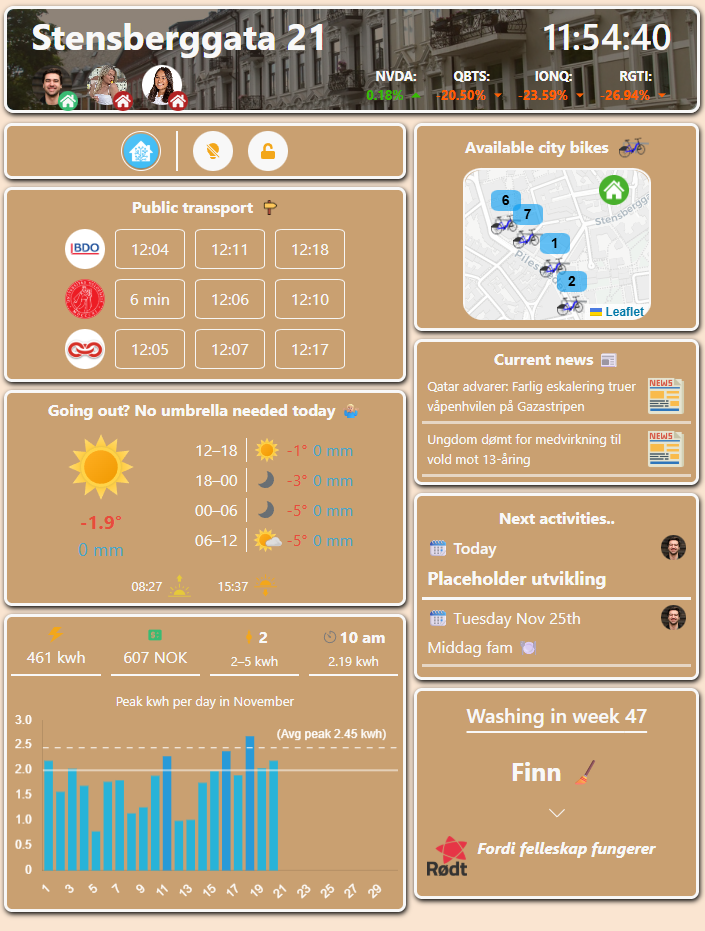
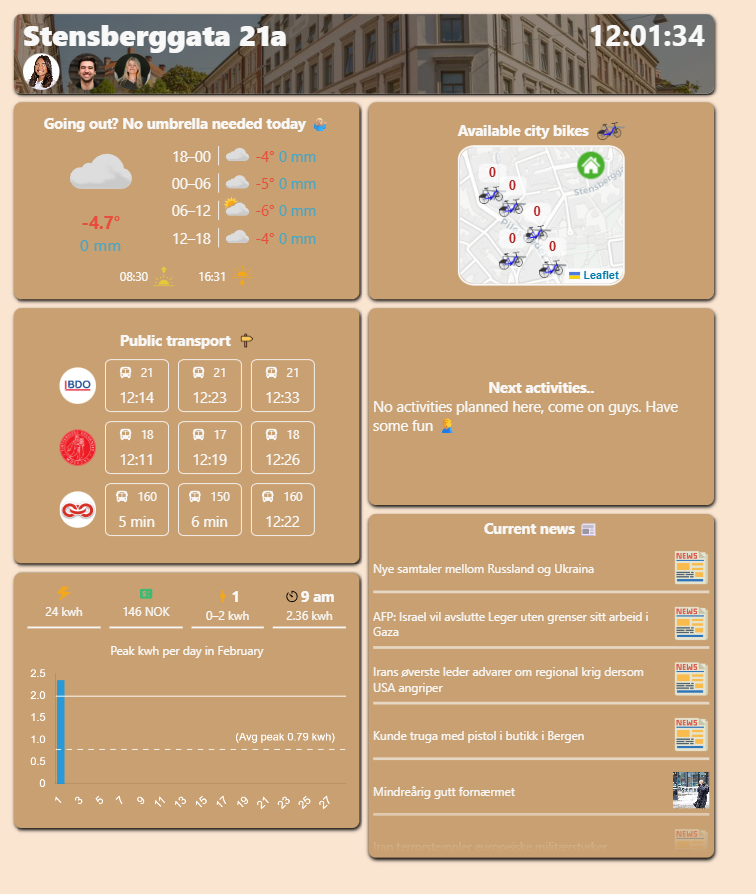
Mvp small fixes (#58)
* Fixed mvp fixes

* Updated dash view for

* Update readme

diff --git a/client/src/components/auth/ProfileOverview.tsx b/client/src/components/auth/ProfileOverview.tsx
@@ -54,7 +54,7 @@ const ProfileOverview: React.FC = () => {
 
   return (
     <>
-      <div className={`login-container h-column surface ${user ? "" : "logged-out"}`}>
+      <div className={`login-container h-column gap-large surface ${user ? "" : "logged-out"}`}>
         {!user ? (
           <Login email={email} setEmail={setEmail} handleSubmit={handleSubmit} />
         ) : (
@@ -78,31 +78,31 @@ const ProfileOverview: React.FC = () => {
             </div>
           </div>
         )}
-      </div>
-      {user && (
-        <div>
-          <div className="h-row action-buttons-right">
-            {editMode ? (
-              <>
-                <LoadingButton onClick={saveAllProfiles} isLoading={isSaving}>
-                  Save <IoMdSend />
-                </LoadingButton>
+        {user && (
+          <div className="h-row action-buttons">
+            <div>
+              <LoadingButton onClick={() => logout()} loadingKey="logout">
+                Sign out <FaSignOutAlt />
+              </LoadingButton>
+            </div>
+            <div className="h-row">
+              {editMode ? (
+                <>
+                  <LoadingButton onClick={saveAllProfiles} isLoading={isSaving}>
+                    Save <IoMdSend />
+                  </LoadingButton>
 
-                <button onClick={cancelEdit}>Cancel</button>
-              </>
-            ) : (
-              <button onClick={() => setEditMode(true)}>
-                Edit <CiEdit />
-              </button>
-            )}
+                  <button onClick={cancelEdit}>Cancel</button>
+                </>
+              ) : (
+                <button onClick={() => setEditMode(true)}>
+                  Edit <CiEdit />
+                </button>
+              )}
+            </div>
           </div>
-          <div className="action-buttons-left">
-            <LoadingButton onClick={() => logout()} loadingKey="logout">
-              Sign out <FaSignOutAlt />
-            </LoadingButton>
-          </div>
-        </div>
-      )}
+        )}
+      </div>
     </>
   );
 };

diff --git a/client/src/components/dashboard/default/templates/DefaultTemplate.ts b/client/src/components/dashboard/default/templates/DefaultTemplate.ts
@@ -3,52 +3,60 @@ import { GridItem } from "../../grid/model/grid-models";
 
 const defaultTemplate: GridItem[] = [
   {
-    id: "60db3294-5374-4bf7-b29f-895e6e74f3b7",
-    col: 13,
-    row: 8,
-    widget: WidgetEnum.news,
-    colSpan: 11,
-    rowSpan: 6,
-  },
-  {
     id: "942c9130-9db9-4574-aac2-6095f3399f17",
     col: 0,
-    row: 7,
+    row: 3,
     widget: WidgetEnum.weather,
-    colSpan: 13,
+    colSpan: 12,
     rowSpan: 7,
   },
   {
     id: "d157f2d8-06aa-4636-8b27-a3110ff2b672",
     col: 0,
-    row: 0,
+    row: 10,
     widget: WidgetEnum.busCards,
-    colSpan: 13,
-    rowSpan: 7,
-  },
-  {
-    id: "9484eb7b-6592-4dd4-983c-7c901efc9536",
-    col: 13,
-    row: 14,
-    widget: WidgetEnum.calender,
-    colSpan: 11,
-    rowSpan: 6,
-  },
-  {
-    id: "e171c147-378e-4d48-83a1-c418dbf6ae60",
-    col: 0,
-    row: 14,
-    widget: WidgetEnum.electricity,
-    colSpan: 13,
+    colSpan: 12,
     rowSpan: 9,
   },
   {
-    id: "b17844ad-b696-453e-a884-87a4ad4c4efa",
-    col: 13,
+    id: "9484eb7b-6592-4dd4-983c-7c901efc9536",
+    col: 12,
+    row: 10,
+    widget: WidgetEnum.calender,
+    colSpan: 12,
+    rowSpan: 7,
+  },
+  {
+    id: "f515d2dd-9ba0-4aeb-8ff5-b464788ec979",
+    col: 0,
     row: 0,
-    colSpan: 11,
-    rowSpan: 8,
+    widget: WidgetEnum.header,
+    colSpan: 24,
+    rowSpan: 3,
+  },
+  {
+    id: "9e34569b-16ff-4e14-b8ba-abc13d813084",
+    col: 12,
+    row: 3,
     widget: WidgetEnum.cityBike,
+    colSpan: 12,
+    rowSpan: 7,
+  },
+  {
+    id: "03ce08f3-0a06-4297-9b90-73cc9cada1b8",
+    col: 12,
+    row: 17,
+    widget: WidgetEnum.news,
+    colSpan: 12,
+    rowSpan: 12,
+  },
+  {
+    id: "b13f9751-52eb-48fa-b7de-f2965cde7f88",
+    col: 0,
+    row: 19,
+    widget: WidgetEnum.electricity,
+    colSpan: 12,
+    rowSpan: 9,
   },
 ];
 

diff --git a/client/src/components/header/header.tsx b/client/src/components/header/header.tsx
@@ -4,7 +4,7 @@ import moment from "moment";
 import { useAuth } from "../../context/AuthContext";
 import ImageCircle from "../shared/imageCirlce/ImageCircle";
 
-const defaultBanner = "/img/header/oslogate.jpg";
+const defaultBanner = "./img/header/oslogate.jpg";
 
 const Header: React.FC = () => {
   const [minutes, setMinutes] = useState(moment().format("HH:mm:ss"));
@@ -17,10 +17,8 @@ const Header: React.FC = () => {
     return () => clearInterval(countdownInterval);
   }, []);
   return (
-    <div
-      className="header-container"
-      style={{ backgroundImage: `url(${home?.bannerUrl || defaultBanner})` }}
-    >
+    <div className="header-container">
+      <img className="header-background-image" src={home?.bannerUrl || defaultBanner} alt="header background" />
       <div className="header-content-container">
         <h1>
           <strong>{home?.name ? home.name : "Heimr"}</strong>

diff --git a/client/src/components/dashboard/grid/widget/widget-container.tsx b/client/src/components/dashboard/grid/widget/widget-container.tsx
@@ -5,6 +5,8 @@ import { useDashboard } from "../../dashboard-context";
 import { MdDelete } from "react-icons/md";
 import GridService from "../service/grid-service";
 import { Widgets } from "../../../widgets/model/wigets";
+import { IoIosResize } from "react-icons/io";
+
 interface WidgetContainerProps {
   gridItem: GridItem;
   gridData: GridMetaData;
@@ -81,7 +83,9 @@ const WidgetContainer: React.FC<WidgetContainerProps> = ({ gridItem, gridData })
       )}
 
       {editMode.editMode && (
-        <div ref={setResizeRef} {...resizeListeners} {...resizeAttributes} style={resizeHandleStyle} />
+        <div ref={setResizeRef} {...resizeListeners} {...resizeAttributes} style={resizeHandleStyle}>
+          <IoIosResize />
+        </div>
       )}
       <div className="widget-content">{Widgets[gridItem.widget].widgetComponent}</div>
     </div>

diff --git a/client/src/components/dashboard/grid/widget/widget-configuration.css b/client/src/components/dashboard/grid/widget/widget-configuration.css
@@ -3,20 +3,18 @@
   justify-content: center;
   align-items: center;
   width: 100%;
-  height: 90%;
+  min-height: 80%;
 }
 
 .edit-widget-content {
   display: flex;
   width: 100%;
-  max-height: 90%;
-  min-height: 70%;
+  max-height: 90vh;
   gap: 3rem;
 }
 
 .edit-widget-content-item {
   flex: 1;
-  min-height: 0;
   display: flex;
   justify-content: center;
   flex-direction: column;
@@ -25,6 +23,10 @@
 }
 
 @media (max-width: 900px) {
+  .edit-widget-container {
+    flex-direction: column;
+    height: auto;
+  }
   .edit-widget-content {
     flex-direction: column;
   }

diff --git a/client/src/components/auth/ProfileOverview.css b/client/src/components/auth/ProfileOverview.css
@@ -1,27 +1,21 @@
 .login-container {
   align-items: center;
-  height: 85%;
+  min-height: 85%;
   position: relative;
+  padding: 20px;
 }
 
 .logged-out {
   justify-content: center;
 }
 
-.action-buttons-right {
-  position: absolute;
-  bottom: 20px;
-  right: 20px;
-}
-
-.action-buttons-left {
-  position: absolute;
-  bottom: 20px;
-  left: 20px;
+.action-buttons {
+  justify-content: space-between;
+  width: 100%;
+  margin-top: auto;
 }
 
 .profile-overview-container {
-  padding-top: 20px;
   padding-inline: 20px;
 }
 

diff --git a/client/src/components/widgets/news/news.css b/client/src/components/widgets/news/news.css
@@ -2,17 +2,15 @@
   height: 100%;
   min-height: 0;
   overflow: hidden;
-}
-
-.news-items-wrapper {
-  flex: 1;
-  min-height: 0;
-  overflow-y: hidden;
+  position: relative;
+  mask-image: linear-gradient(to bottom, black 85%, transparent 100%);
+  -webkit-mask-image: linear-gradient(to bottom, black 85%, transparent 100%);
 }
 
 .news-text {
   text-overflow: hidden;
   width: 100%;
+  pointer-events: none;
 }
 
 .news-img-container {

diff --git a/client/src/components/header/header.css b/client/src/components/header/header.css
@@ -2,11 +2,20 @@
   width: 100%;
   height: 100%;
   position: relative;
-  background-size: cover;
-  background-position: center;
   color: var(--color-off-white);
   border-radius: 8px;
   box-shadow: 1px 2.5px 5px black;
+  overflow: hidden;
+}
+
+.header-background-image {
+  position: absolute;
+  top: 0;
+  left: 0;
+  width: 100%;
+  height: 100%;
+  object-fit: cover;
+  z-index: 0;
 }
 
 .header-container::after {

diff --git a/client/src/components/widgets/city-bike/components/configuration/cityBikeConfiguration.tsx b/client/src/components/widgets/city-bike/components/configuration/cityBikeConfiguration.tsx
@@ -97,7 +97,7 @@ const CityBikeConfiguration: React.FC = () => {
     <div className="city-bike-configuration h-column">
       <div className="h-column">
         <label htmlFor="homeId">Home address:</label>
-        <AdressSearch adress={home?.name ?? ""} onAddressSelect={onAddressSelect} />
+        <AdressSearch onAddressSelect={onAddressSelect} />
       </div>
       <div className="map">
         <MapContainer

diff --git a/client/src/components/widgets/news/news.tsx b/client/src/components/widgets/news/news.tsx
@@ -40,7 +40,7 @@ const News: React.FC = () => {
         <div className="widget-title">
           <div>Current news 📰</div>
         </div>
-        <div className="news-items-wrapper h-column">
+        <div className="h-column">
           {news &&
             news.rss.channel.item.map((newsItem) => {
               return (

diff --git a/client/src/components/shared/tab/Tab.css b/client/src/components/shared/tab/Tab.css
@@ -3,6 +3,7 @@
   flex-direction: column;
   width: 100%;
   height: 100%;
+  min-height: 0;
   color: black;
   gap: 15px;
 }
@@ -41,6 +42,7 @@
 
 .tab-content {
   flex: 1;
+  min-height: 0;
   padding: 16px;
   overflow-y: auto;
 }

diff --git a/client/src/components/widgets/weather/api/weather-fetcher.tsx b/client/src/components/widgets/weather/api/weather-fetcher.tsx
@@ -1,4 +1,3 @@
-import axios from "axios";
 import configuration from "../../../../Configuration";
 import { WeatherResponse } from "../model/response/WeatherResponse";
 import { WeatherForecast } from "../model/data/WeatherForecast";
